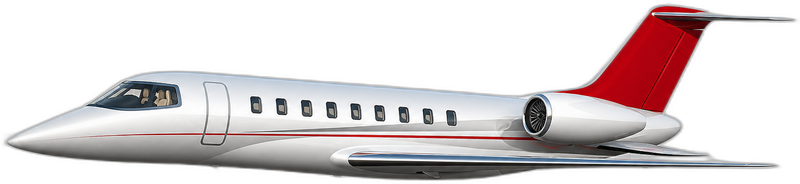
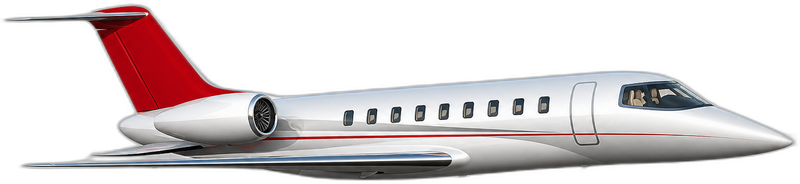
Flip jet sprite to face direction of travel in Flow Flight

diff --git a/web-app/neurofeedback/flow-flight.html b/web-app/neurofeedback/flow-flight.html
@@ -42,7 +42,7 @@ const altEl=document.getElementById('alt'), distEl=document.getElementById('dist
 const clouds=[]; for(let i=0;i<12;i++) clouds.push({x:Math.random()*2000,y:Math.random()*0.6,s:40+Math.random()*60});
 
 const IMG={};
-[['bg','assets/bg-sky.jpg?v=2'],['jet','assets/jet.png?v=2']]
+[['bg','assets/bg-sky.jpg?v=2'],['jet','assets/jet.png?v=3']]
   .forEach(([k,src])=>{const im=new Image(); im.src=src; IMG[k]=im;});
 
 function update(dt){